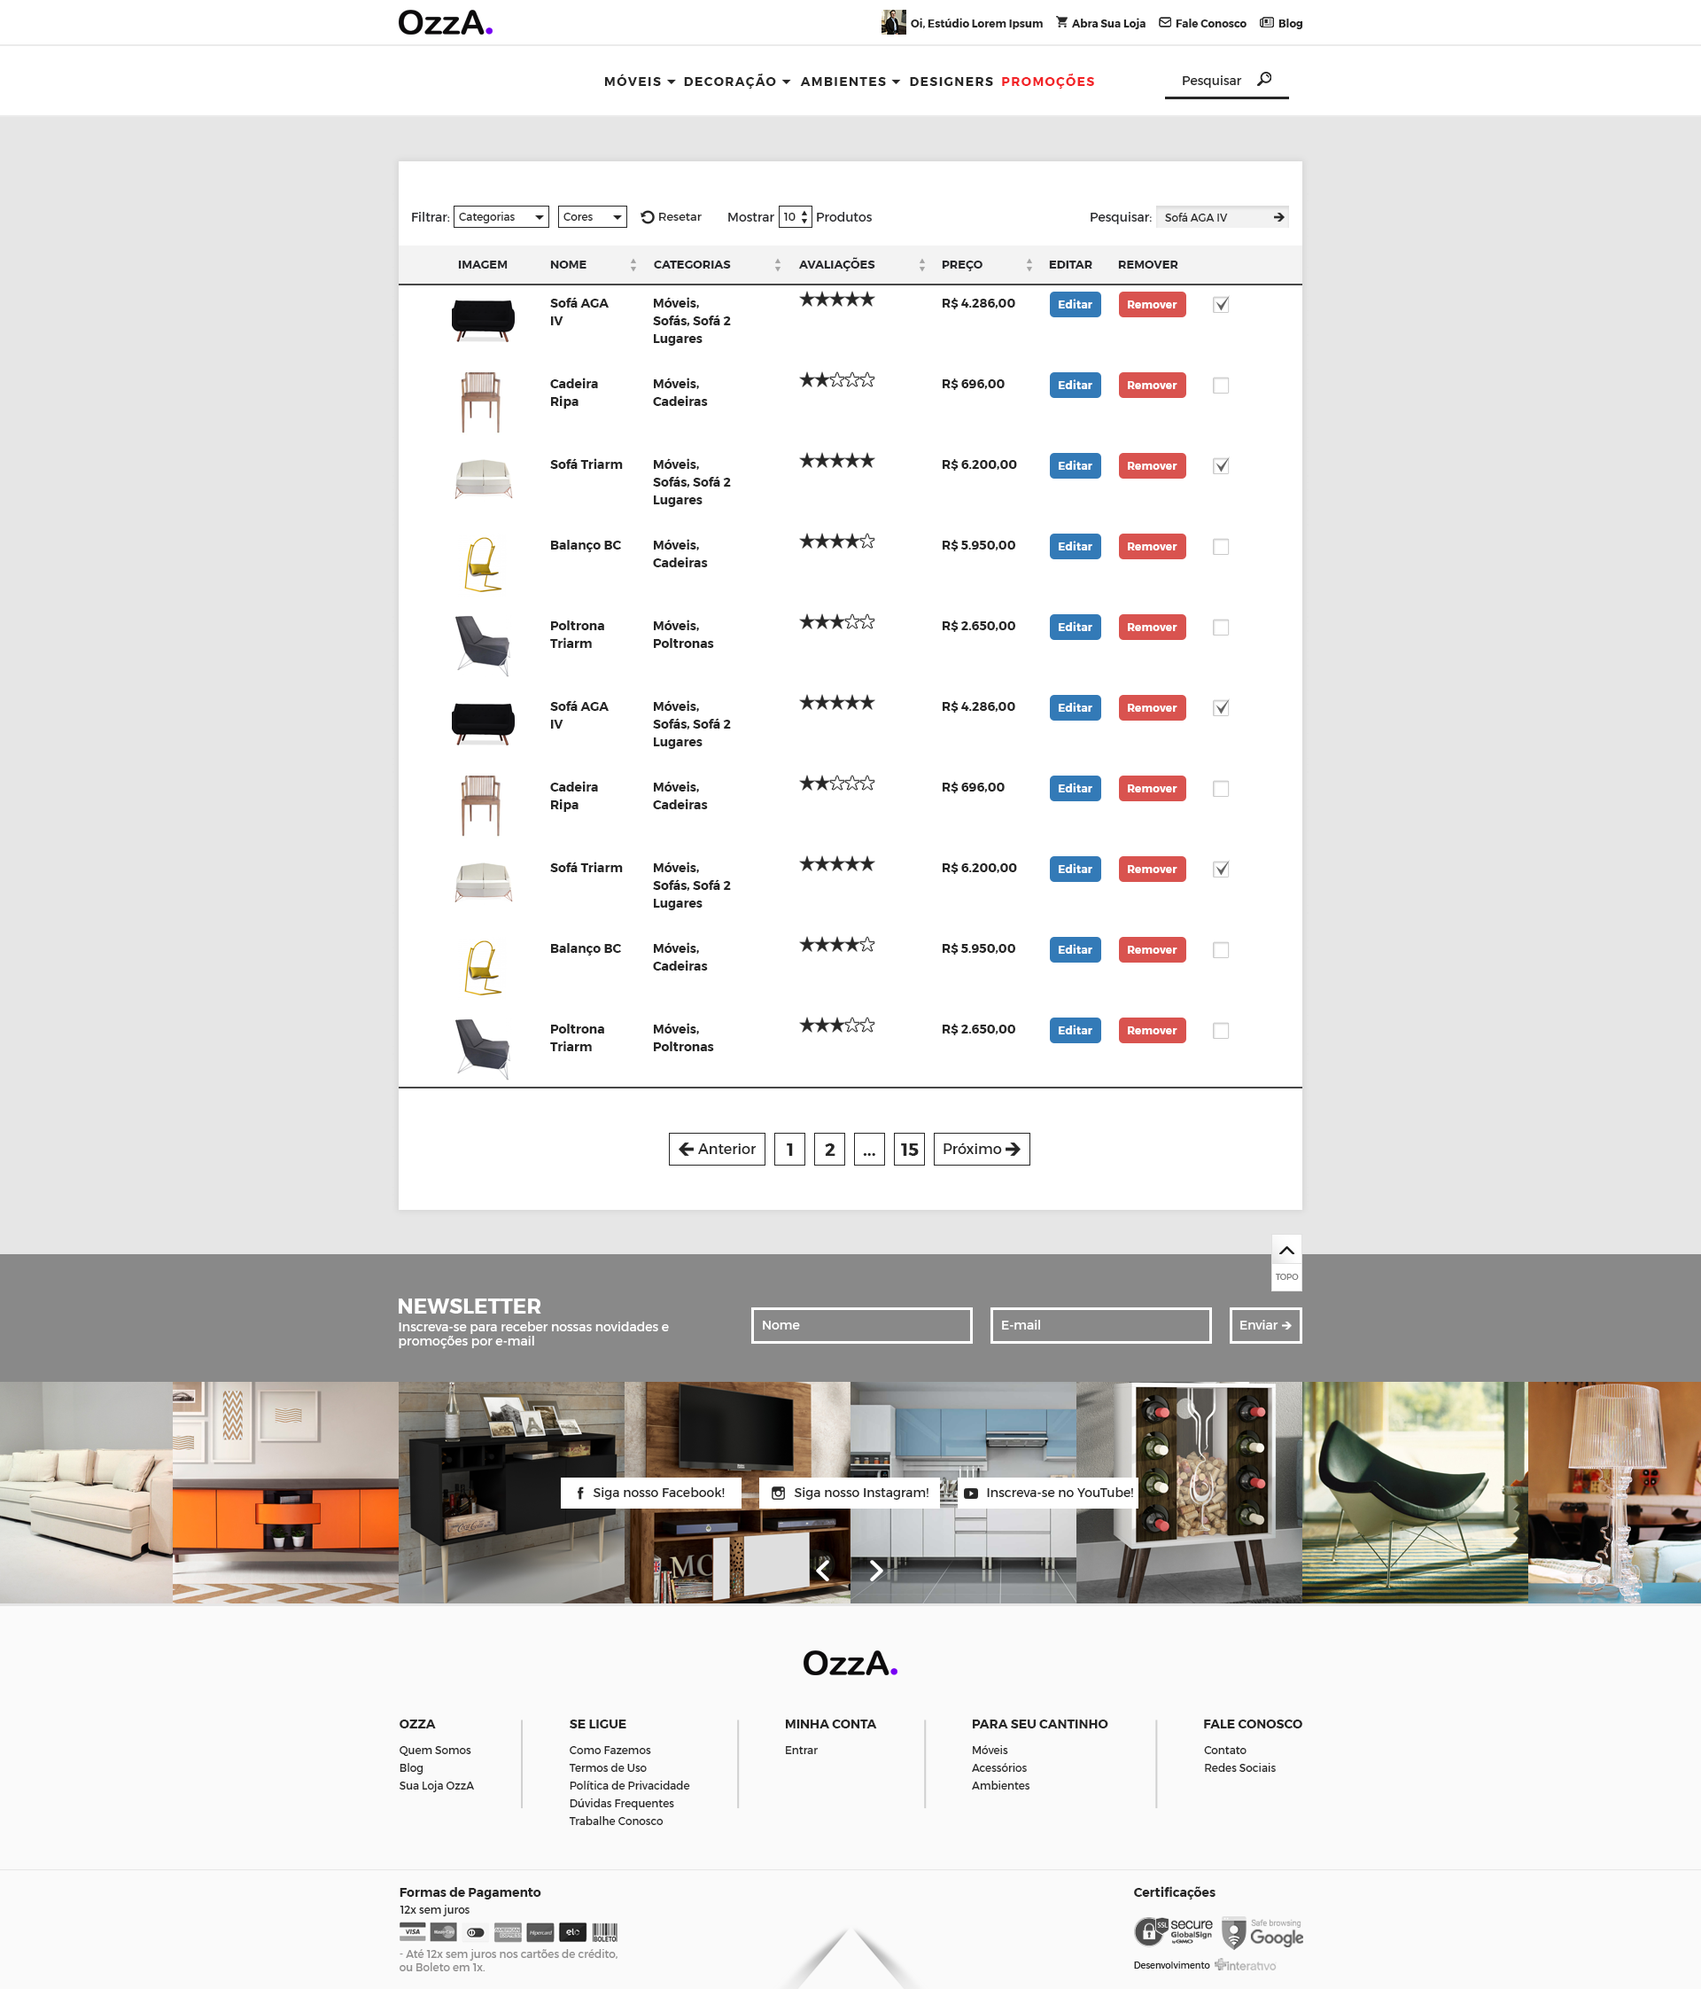
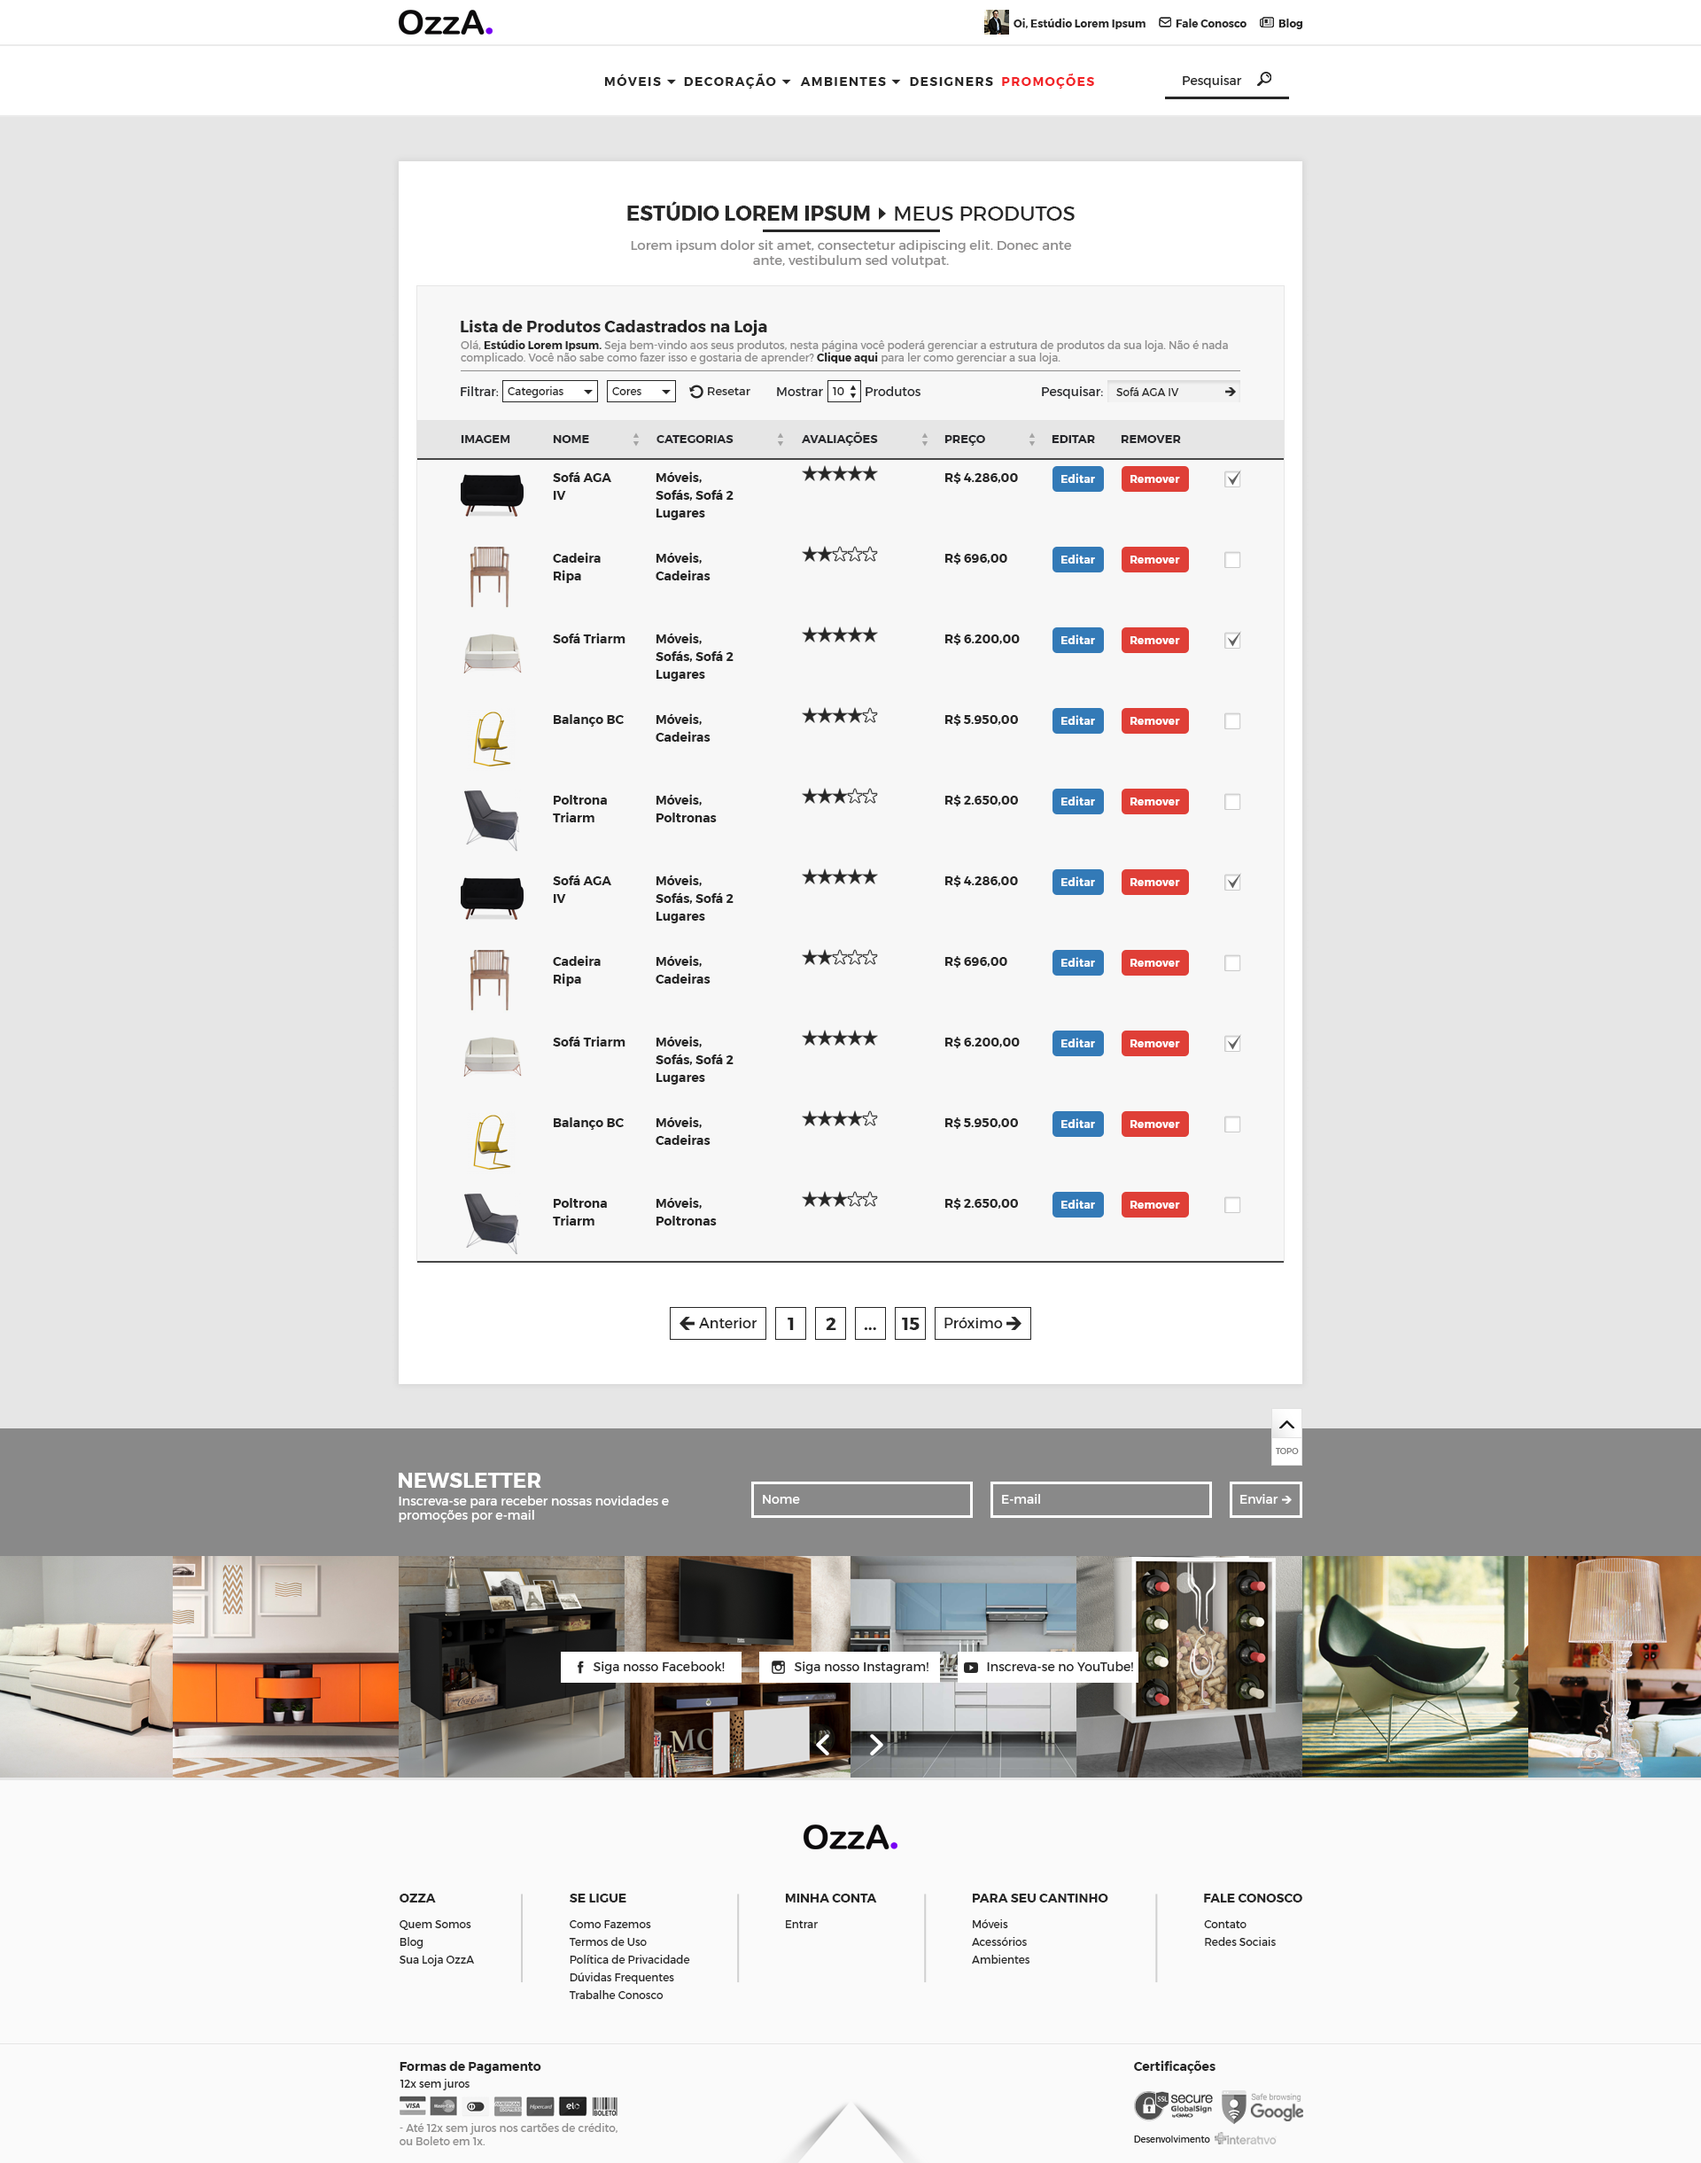
Add files via upload

diff --git a/css/style.css b/css/style.css
@@ -558,18 +558,72 @@
 		
 		.produtos-dashboard {
 			width: 100%;
-			height: 2244px;
+			height: 2441px;
 			background: url('../imgs/produtos-dashboard.png') no-repeat 50% 0%;
 		}
 		
 		.produtos-dashboard-hover {
 			width: 100%;
-			height: 2244px;
+			height: 2441px;
 			background: url('../imgs/produtos-dashboard-hover.png') no-repeat 50% 0%;
 		}
 		
 		.produtos-dashboard-active {
 			width: 100%;
-			height: 2244px;
+			height: 2441px;
 			background: url('../imgs/produtos-dashboard-active.png') no-repeat 50% 0%;
+		}
+		
+		.cadastro-produtos-geral {
+			width: 100%;
+			height: 2000px;
+			background: url('../imgs/cadastro-produtos-geral.png') no-repeat 50% 0%;
+		}
+		
+		.cadastro-produtos-geral-hover {
+			width: 100%;
+			height: 2000px;
+			background: url('../imgs/cadastro-produtos-geral-hover.png') no-repeat 50% 0%;
+		}
+		
+		.cadastro-produtos-geral-active {
+			width: 100%;
+			height: 2000px;
+			background: url('../imgs/cadastro-produtos-geral-active.png') no-repeat 50% 0%;
+		}
+		
+		.cadastro-produtos-precos {
+			width: 100%;
+			height: 1847px;
+			background: url('../imgs/cadastro-produtos-precos.png') no-repeat 50% 0%;
+		}
+		
+		.cadastro-produtos-precos-hover {
+			width: 100%;
+			height: 1847px;
+			background: url('../imgs/cadastro-produtos-precos-hover.png') no-repeat 50% 0%;
+		}
+		
+		.cadastro-produtos-precos-active {
+			width: 100%;
+			height: 1847px;
+			background: url('../imgs/cadastro-produtos-precos-active.png') no-repeat 50% 0%;
+		}
+		
+		.cadastro-produtos-seo {
+			width: 100%;
+			height: 1796px;
+			background: url('../imgs/cadastro-produtos-seo.png') no-repeat 50% 0%;
+		}
+		
+		.cadastro-produtos-seo-hover {
+			width: 100%;
+			height: 1796px;
+			background: url('../imgs/cadastro-produtos-seo-hover.png') no-repeat 50% 0%;
+		}
+		
+		.cadastro-produtos-seo-active {
+			width: 100%;
+			height: 1796px;
+			background: url('../imgs/cadastro-produtos-seo-active.png') no-repeat 50% 0%;
 		}

diff --git a/cadastro-produtos-precos-active.html b/cadastro-produtos-precos-active.html
@@ -1,0 +1,26 @@
+<!DOCTYPE html>
+<html>
+
+	<head>
+		
+		<title>OzzA - Apresentação do Layout</title>
+		<meta charset="utf-8" />
+		<meta lang="pt-BR" />
+		
+		<meta name="description" content="OzzA - Apresentação do Layout" />
+		<meta name="keywords" content="OzzA - Apresentação do Layout" />
+		<meta name="author" content="Mais Interativo" />
+		
+		<link rel="stylesheet" type="text/css" href="css/style.css" />
+		
+	</head>
+	
+	<body>
+		
+		<div class="cadastro-produtos-precos-active">
+			<div class="clearfix"></div>
+		</div>
+		
+	</body>
+
+</html>

diff --git a/cadastro-produtos-geral-active.html b/cadastro-produtos-geral-active.html
@@ -1,0 +1,26 @@
+<!DOCTYPE html>
+<html>
+
+	<head>
+		
+		<title>OzzA - Apresentação do Layout</title>
+		<meta charset="utf-8" />
+		<meta lang="pt-BR" />
+		
+		<meta name="description" content="OzzA - Apresentação do Layout" />
+		<meta name="keywords" content="OzzA - Apresentação do Layout" />
+		<meta name="author" content="Mais Interativo" />
+		
+		<link rel="stylesheet" type="text/css" href="css/style.css" />
+		
+	</head>
+	
+	<body>
+		
+		<div class="cadastro-produtos-geral-active">
+			<div class="clearfix"></div>
+		</div>
+		
+	</body>
+
+</html>

diff --git a/cadastro-produtos-precos-hover.html b/cadastro-produtos-precos-hover.html
@@ -1,0 +1,26 @@
+<!DOCTYPE html>
+<html>
+
+	<head>
+		
+		<title>OzzA - Apresentação do Layout</title>
+		<meta charset="utf-8" />
+		<meta lang="pt-BR" />
+		
+		<meta name="description" content="OzzA - Apresentação do Layout" />
+		<meta name="keywords" content="OzzA - Apresentação do Layout" />
+		<meta name="author" content="Mais Interativo" />
+		
+		<link rel="stylesheet" type="text/css" href="css/style.css" />
+		
+	</head>
+	
+	<body>
+		
+		<div class="cadastro-produtos-precos-hover">
+			<div class="clearfix"></div>
+		</div>
+		
+	</body>
+
+</html>

diff --git a/cadastro-produtos-geral-hover.html b/cadastro-produtos-geral-hover.html
@@ -1,0 +1,26 @@
+<!DOCTYPE html>
+<html>
+
+	<head>
+		
+		<title>OzzA - Apresentação do Layout</title>
+		<meta charset="utf-8" />
+		<meta lang="pt-BR" />
+		
+		<meta name="description" content="OzzA - Apresentação do Layout" />
+		<meta name="keywords" content="OzzA - Apresentação do Layout" />
+		<meta name="author" content="Mais Interativo" />
+		
+		<link rel="stylesheet" type="text/css" href="css/style.css" />
+		
+	</head>
+	
+	<body>
+		
+		<div class="cadastro-produtos-geral-hover">
+			<div class="clearfix"></div>
+		</div>
+		
+	</body>
+
+</html>

diff --git a/cadastro-produtos-seo-active.html b/cadastro-produtos-seo-active.html
@@ -1,0 +1,26 @@
+<!DOCTYPE html>
+<html>
+
+	<head>
+		
+		<title>OzzA - Apresentação do Layout</title>
+		<meta charset="utf-8" />
+		<meta lang="pt-BR" />
+		
+		<meta name="description" content="OzzA - Apresentação do Layout" />
+		<meta name="keywords" content="OzzA - Apresentação do Layout" />
+		<meta name="author" content="Mais Interativo" />
+		
+		<link rel="stylesheet" type="text/css" href="css/style.css" />
+		
+	</head>
+	
+	<body>
+		
+		<div class="cadastro-produtos-seo-active">
+			<div class="clearfix"></div>
+		</div>
+		
+	</body>
+
+</html>

diff --git a/cadastro-produtos-seo-hover.html b/cadastro-produtos-seo-hover.html
@@ -1,0 +1,26 @@
+<!DOCTYPE html>
+<html>
+
+	<head>
+		
+		<title>OzzA - Apresentação do Layout</title>
+		<meta charset="utf-8" />
+		<meta lang="pt-BR" />
+		
+		<meta name="description" content="OzzA - Apresentação do Layout" />
+		<meta name="keywords" content="OzzA - Apresentação do Layout" />
+		<meta name="author" content="Mais Interativo" />
+		
+		<link rel="stylesheet" type="text/css" href="css/style.css" />
+		
+	</head>
+	
+	<body>
+		
+		<div class="cadastro-produtos-seo-hover">
+			<div class="clearfix"></div>
+		</div>
+		
+	</body>
+
+</html>

diff --git a/cadastro-produtos-precos.html b/cadastro-produtos-precos.html
@@ -1,0 +1,26 @@
+<!DOCTYPE html>
+<html>
+
+	<head>
+		
+		<title>OzzA - Apresentação do Layout</title>
+		<meta charset="utf-8" />
+		<meta lang="pt-BR" />
+		
+		<meta name="description" content="OzzA - Apresentação do Layout" />
+		<meta name="keywords" content="OzzA - Apresentação do Layout" />
+		<meta name="author" content="Mais Interativo" />
+		
+		<link rel="stylesheet" type="text/css" href="css/style.css" />
+		
+	</head>
+	
+	<body>
+		
+		<div class="cadastro-produtos-precos">
+			<div class="clearfix"></div>
+		</div>
+		
+	</body>
+
+</html>

diff --git a/cadastro-produtos-geral.html b/cadastro-produtos-geral.html
@@ -1,0 +1,26 @@
+<!DOCTYPE html>
+<html>
+
+	<head>
+		
+		<title>OzzA - Apresentação do Layout</title>
+		<meta charset="utf-8" />
+		<meta lang="pt-BR" />
+		
+		<meta name="description" content="OzzA - Apresentação do Layout" />
+		<meta name="keywords" content="OzzA - Apresentação do Layout" />
+		<meta name="author" content="Mais Interativo" />
+		
+		<link rel="stylesheet" type="text/css" href="css/style.css" />
+		
+	</head>
+	
+	<body>
+		
+		<div class="cadastro-produtos-geral">
+			<div class="clearfix"></div>
+		</div>
+		
+	</body>
+
+</html>

diff --git a/cadastro-produtos-seo.html b/cadastro-produtos-seo.html
@@ -1,0 +1,26 @@
+<!DOCTYPE html>
+<html>
+
+	<head>
+		
+		<title>OzzA - Apresentação do Layout</title>
+		<meta charset="utf-8" />
+		<meta lang="pt-BR" />
+		
+		<meta name="description" content="OzzA - Apresentação do Layout" />
+		<meta name="keywords" content="OzzA - Apresentação do Layout" />
+		<meta name="author" content="Mais Interativo" />
+		
+		<link rel="stylesheet" type="text/css" href="css/style.css" />
+		
+	</head>
+	
+	<body>
+		
+		<div class="cadastro-produtos-seo">
+			<div class="clearfix"></div>
+		</div>
+		
+	</body>
+
+</html>
